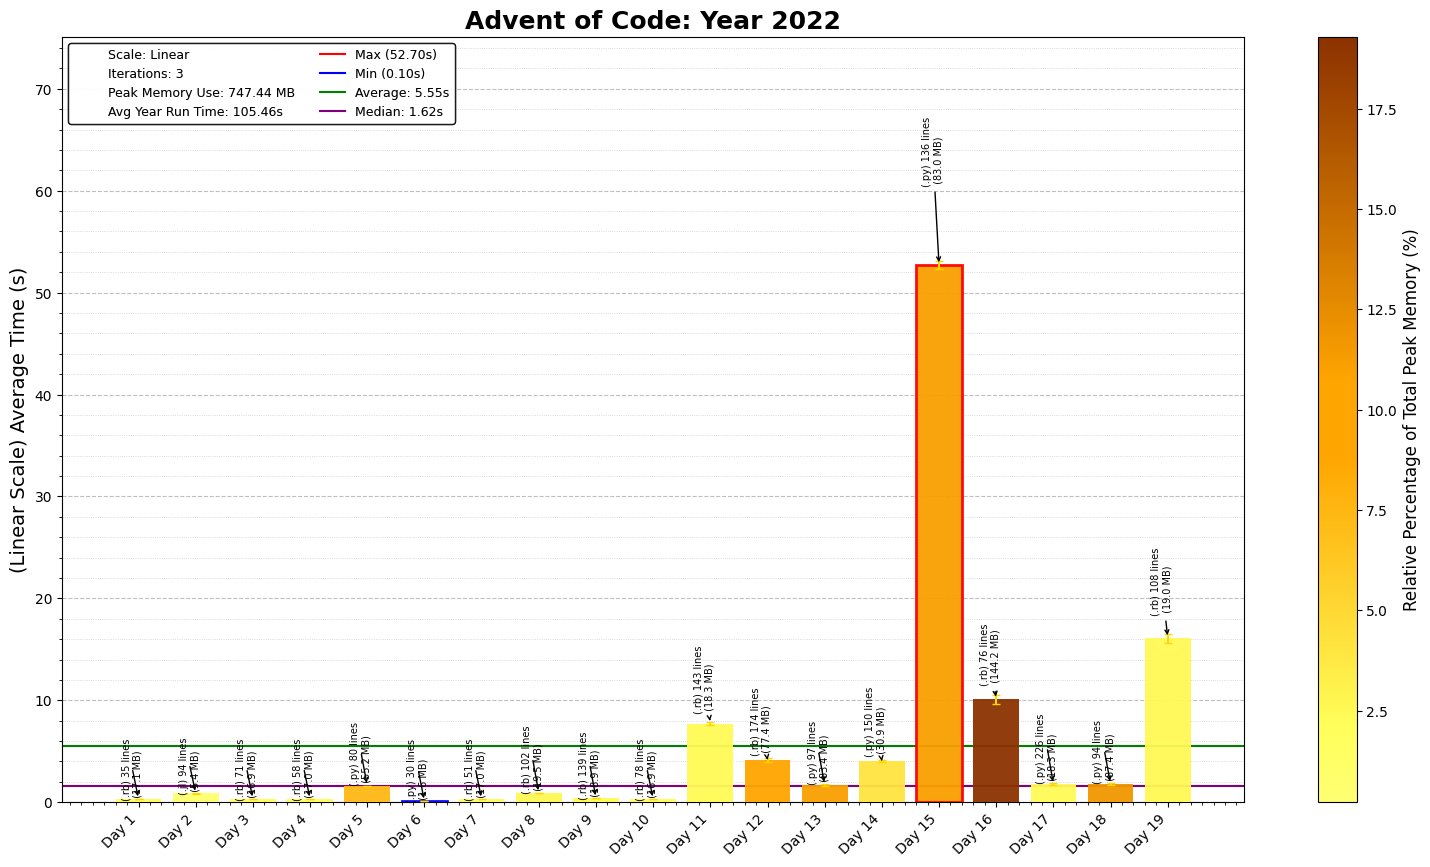
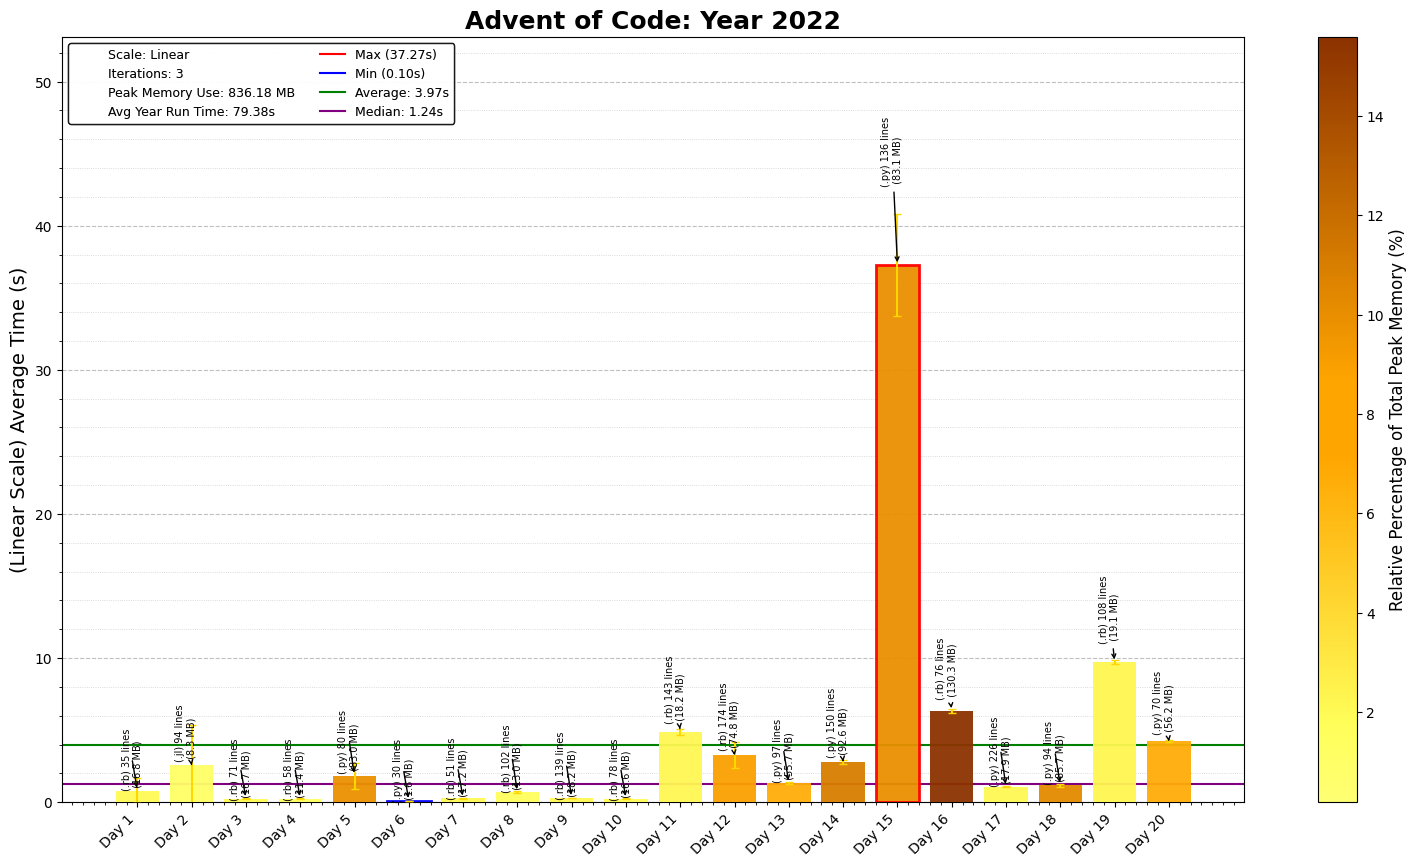
2022 Day 20

diff --git a/2022/20/2022Day20.py b/2022/20/2022Day20.py
@@ -1,0 +1,70 @@
+"""Advent of Code - Day 20, Year 2022
+Solution Started: Dec 9, 2024
+Puzzle Link: https://adventofcode.com/2022/day/20
+Solution by: abbasmoosajee07
+Brief: [Code/Problem Description]
+"""
+
+#!/usr/bin/env python3
+
+import os, re, copy
+import numpy as np
+import pandas as pd
+import matplotlib.pyplot as plt
+from collections import Counter
+
+# Load the input data from the specified file path
+D20_file = "Day20_input.txt"
+D20_file_path = os.path.join(os.path.dirname(os.path.abspath(__file__)), D20_file)
+
+# Read and sort input data into a grid
+with open(D20_file_path) as file:
+    input_data = file.read().strip().split('\n')
+    encrypted_file = [int(num) for num in input_data]
+
+def find_grove_coordinates(file_list, grove = [1000, 2000, 3000]):
+    file = []
+    file_len = len(file_list)
+    zero_pos = [i for i, value in enumerate(file_list) if value == 0]
+
+    for coordinate in grove:
+        idx = (coordinate + zero_pos[0]) % file_len
+        number = file_list[idx]
+        file.append(number)
+    return file
+
+def mix_file(file, decryption_key = 1, mix_rounds = 1):
+    """
+    Mix the file based on the movement rules, accounting for duplicate values.
+    """
+    # Attach unique identifiers to each number to differentiate duplicates
+    indexed_file = [((value * decryption_key), idx) for idx, value in enumerate(file)]
+    mixed_file = copy.deepcopy(indexed_file)  # Avoid modifying the original list
+
+    file_len = len(file)
+    for round in range(mix_rounds):
+
+        for original in indexed_file:
+            move_num, original_idx = original
+
+            # Find the current index of the specific instance in the mixed file
+            idx_pos = mixed_file.index(original)
+
+            # Calculate the new position using modular arithmetic
+            new_pos = (idx_pos + move_num) % (file_len - 1)  # Wrap within list length minus 1
+
+            # Remove the number from its current position and insert at the new position
+            del mixed_file[idx_pos]
+            mixed_file.insert(new_pos, original)
+
+    # Return only the values (strip off the unique identifiers)
+    return [value for value, idx in mixed_file]
+
+
+mixed_p1 = mix_file(encrypted_file)
+coords_p1 = find_grove_coordinates(mixed_p1)
+print("Part 1:", sum(coords_p1))
+
+mixed_p2 = mix_file(encrypted_file, decryption_key=811589153, mix_rounds=10)
+coords_p2 = find_grove_coordinates(mixed_p2)
+print("Part 2:", sum(coords_p2))
